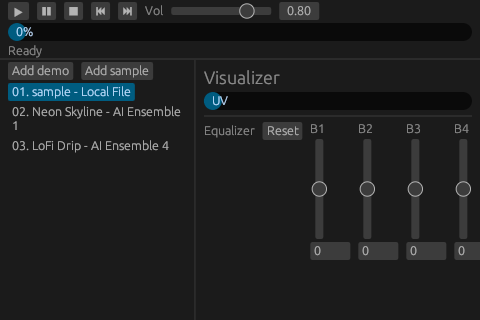
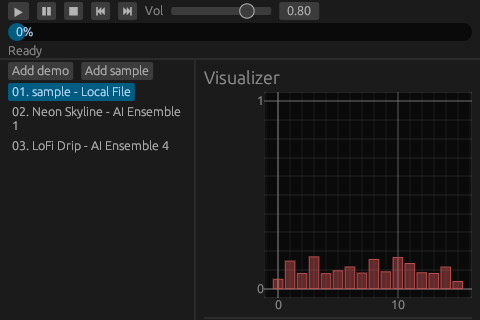
feat: add spectrum visualizer

Changed region(s): [[0.4375, 0.2812, 1.0, 0.9688], [0.4062, 0.2812, 0.4688, 0.3438], [0.8125, 0.9375, 0.8438, 0.9688]]

diff --git a/src/visuals.rs b/src/visuals.rs
@@ -1,34 +1,46 @@
 use rand::{rngs::StdRng, Rng, SeedableRng};
 
-/// VisualMeter synthesizes a pseudo audio power feed for the UV meter.
+/// Number of bars to paint in the faux spectrum analyzer.
+pub const VISUAL_BANDS: usize = 16;
+
+/// VisualMeter synthesizes a pseudo spectrum for the UV analyzer.
 #[derive(Debug)]
 pub struct VisualMeter {
     /// Internal RNG so the waveform feels alive between frames.
     rng: StdRng,
-    /// Last computed level to apply decay between frames.
-    level: f32,
+    /// Cached band levels that we ease toward every frame.
+    bands: [f32; VISUAL_BANDS],
 }
 
 impl VisualMeter {
     /// Builds a new meter seeded for deterministic tests.
     pub fn new(seed: u64) -> Self {
-        // Level starts silent to avoid jumps when the UI appears.
+        // All bands start silent to avoid jumps when the UI appears.
         Self {
             rng: StdRng::seed_from_u64(seed),
-            level: 0.0,
+            bands: [0.0; VISUAL_BANDS],
         }
     }
 
-    /// Steps the meter forward based on transport energy and EQ boost.
-    pub fn sample(&mut self, transport_energy: f32, eq_gain: f32) -> f32 {
-        // Generate a light noise floor for subtle flicker.
-        let noise: f32 = self.rng.gen_range(0.0..0.2);
-        // Combine transport progress, eq gain, and noise into a level.
-        let target = (transport_energy + eq_gain + noise).clamp(0.0, 1.0);
-        // Apply decay so the meter glides instead of snapping.
-        self.level = self.level * 0.8 + target * 0.2;
-        // Return the cached level for rendering.
-        self.level
+    /// Steps the meter forward and returns the latest spectrum snapshot.
+    pub fn sample(&mut self, transport_energy: f32, eq_gain: f32) -> [f32; VISUAL_BANDS] {
+        // Iterate through each band and synthesize a new target level.
+        for (idx, level) in self.bands.iter_mut().enumerate() {
+            // Low bands lean on transport energy while highs react to EQ gain.
+            let band_ratio = idx as f32 / VISUAL_BANDS as f32;
+            let energy_component = transport_energy * (1.0 - band_ratio * 0.5);
+            let eq_component = eq_gain.abs() * (0.3 + band_ratio * 0.7);
+            let noise: f32 = self.rng.gen_range(0.0..0.25);
+            let target = (energy_component + eq_component + noise).clamp(0.0, 1.0);
+            // Apply decay so the band glides instead of snapping.
+            *level = *level * 0.65 + target * 0.35;
+        }
+        self.bands
+    }
+
+    /// Returns the current band levels without mutating state.
+    pub fn bands(&self) -> &[f32; VISUAL_BANDS] {
+        &self.bands
     }
 }
 
@@ -36,14 +48,15 @@ impl VisualMeter {
 mod tests {
     use super::*;
 
-    /// R5:T1 - level should stay within 0..=1 even with aggressive gains.
+    /// R5:T1 - every band should stay within 0..=1 even with aggressive gains.
     #[test]
-    fn level_remains_bounded() {
-        // Deterministic seed keeps expectations stable.
+    fn spectrum_remains_bounded() {
         let mut meter = VisualMeter::new(42);
         for _ in 0..50 {
-            let value = meter.sample(2.0, 2.0);
-            assert!(value >= 0.0 && value <= 1.0);
+            let bands = meter.sample(2.0, 2.0);
+            for value in bands {
+                assert!(value >= 0.0 && value <= 1.0);
+            }
         }
     }
 }

diff --git a/src/core.rs b/src/core.rs
@@ -1,7 +1,7 @@
 use crate::audio::AudioEngine;
 use crate::equalizer::Equalizer;
 use crate::playlist::Playlist;
-use crate::visuals::VisualMeter;
+use crate::visuals::{VisualMeter, VISUAL_BANDS};
 use anyhow::Result;
 
 /// TransportState mirrors Winamp's classic play/pause/stop triad.
@@ -29,8 +29,8 @@ pub struct WinampCore {
     equalizer: Equalizer,
     /// Visual meter synthesizes a faux UV display.
     visual_meter: VisualMeter,
-    /// Cached last visual level to avoid recomputing mid frame.
-    visual_level: f32,
+    /// Cached spectrum levels to avoid recomputing mid frame.
+    visual_levels: [f32; VISUAL_BANDS],
 }
 
 impl WinampCore {
@@ -44,7 +44,7 @@ impl WinampCore {
             volume: 0.8,
             equalizer: Equalizer::new(),
             visual_meter: VisualMeter::new(0xAA55AA55),
-            visual_level: 0.0,
+            visual_levels: [0.0; VISUAL_BANDS],
         }
     }
 
@@ -161,10 +161,9 @@ impl WinampCore {
             TransportState::Paused { progress } => self.progress_from_secs(progress),
             TransportState::Stopped => 0.0,
         };
-        self.visual_level = self.visual_meter.sample(
-            normalized_transport,
-            self.equalizer.average_gain().abs() / 12.0,
-        );
+        self.visual_levels = self
+            .visual_meter
+            .sample(normalized_transport, self.equalizer.average_gain() / 12.0);
         Ok(())
     }
 
@@ -178,9 +177,9 @@ impl WinampCore {
         }
     }
 
-    /// Returns the last sampled visual level.
-    pub fn visual_level(&self) -> f32 {
-        self.visual_level
+    /// Returns the last sampled visual spectrum.
+    pub fn visual_spectrum(&self) -> &[f32; VISUAL_BANDS] {
+        &self.visual_levels
     }
 
     /// Helper converting seconds to normalized progress.

diff --git a/src/app.rs b/src/app.rs
@@ -3,6 +3,7 @@ use crate::core::WinampCore;
 use crate::playlist::{Playlist, Track};
 use anyhow::Result;
 use eframe::egui;
+use egui_plot::{Bar, BarChart, Plot};
 use std::path::PathBuf;
 use std::time::Instant;
 
@@ -160,8 +161,21 @@ impl eframe::App for WinampApp {
         // Central panel hosts the faux visualizer plus equalizer controls.
         egui::CentralPanel::default().show(ctx, |ui| {
             ui.heading("Visualizer");
-            let level = self.core.visual_level();
-            ui.add(egui::ProgressBar::new(level).text("UV"));
+            Plot::new("spectrum")
+                .allow_drag(false)
+                .allow_zoom(false)
+                .include_y(0.0)
+                .include_y(1.0)
+                .show(ui, |plot_ui| {
+                    let bars: Vec<_> = self
+                        .core
+                        .visual_spectrum()
+                        .iter()
+                        .enumerate()
+                        .map(|(idx, level)| Bar::new(idx as f64, *level as f64).width(0.8))
+                        .collect();
+                    plot_ui.bar_chart(BarChart::new(bars));
+                });
             ui.separator();
             ui.horizontal(|ui| {
                 ui.label("Equalizer");

diff --git a/tests/functional.rs b/tests/functional.rs
@@ -33,9 +33,11 @@ fn r5_visual_meter_changes_over_time() {
     playlist.add_track(Track::demo("Meter", 321));
     let mut core = WinampCore::new(playlist, Box::new(SilentAudio));
     core.play().unwrap();
-    let before = core.visual_level();
+    let before = core.visual_spectrum().clone();
     core.tick(0.5).unwrap();
-    let after = core.visual_level();
-    assert!(after >= 0.0 && after <= 1.0);
-    assert_ne!(before, after);
+    let after = core.visual_spectrum().clone();
+    for level in after {
+        assert!(level >= 0.0 && level <= 1.0);
+    }
+    assert_ne!(before.to_vec(), after.to_vec());
 }

diff --git a/README.md b/README.md
@@ -8,7 +8,7 @@ AIWinAmp is a lightweight Winamp-inspired desktop music player written in Rust +
 - Winamp-style transport bar with Play/Pause/Stop/Prev/Next controls and progress bar.
 - Playlist management with demo tracks, row selection, and easy demo/sample injection.
 - Simulated equalizer with five clamped bands plus reset action.
-- Procedural UV-style visualizer that reacts to transport progress and EQ boost.
+- Procedural UV-style spectrum visualizer reacting to transport progress and EQ boost.
 - Silent audio backend that can be swapped for a native engine without changing UI logic.
 - Comprehensive unit + functional tests mapped to requirements in `docs/requirements.md`.
 
